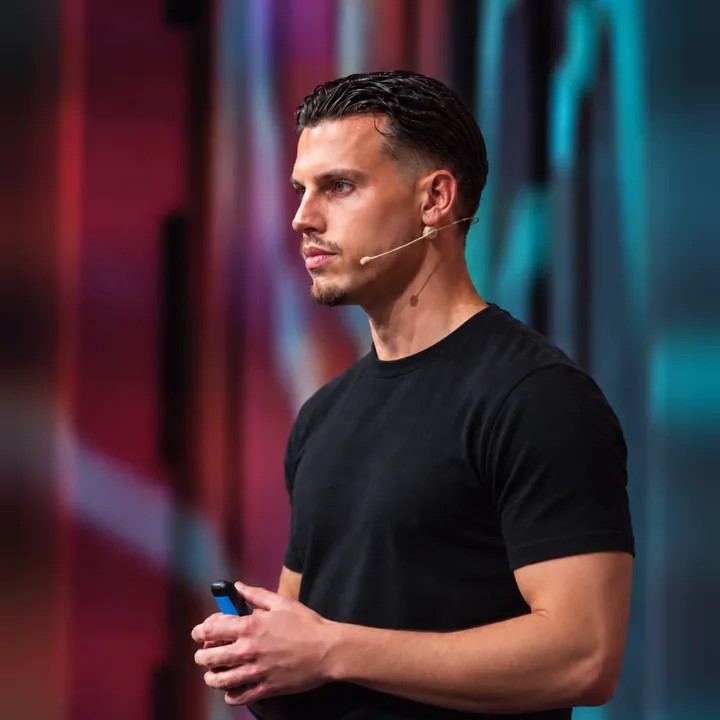
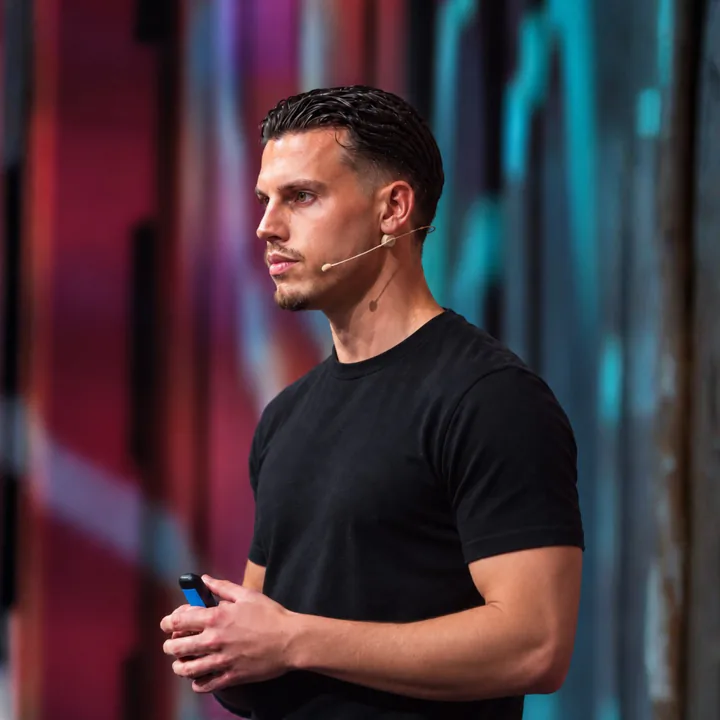
New square profile photo and a bolder name

diff --git a/styles.css b/styles.css
@@ -295,7 +295,7 @@ body {
 .name {
   margin: 0;
   font-size: clamp(1.75rem, 7.6vw, 2.375rem);
-  font-weight: 500;
+  font-weight: 600;
   letter-spacing: -0.04em;
   line-height: 1.08;
   color: var(--text);
@@ -304,7 +304,7 @@ body {
    „sprechen.“ in den Kundenstimmen. */
 .name__accent {
   font-style: italic;
-  font-weight: 620;
+  font-weight: 700;
   color: #0050f6;
   /* Platz für den Überhang der Kursiven, ohne den Satz zu verschieben */
   padding-inline: 0.03em 0.09em;

diff --git a/CREDITS.md b/CREDITS.md
@@ -49,8 +49,8 @@ und tragen auf der Seite das Schild „Platzhalter“, bis echte Videos da sind.
 
 ## Eigene Inhalte
 
-- `assets/niclas-avatar.webp` — rundes Profilbild, aus dem Bühnenfoto
-  geschnitten. Die Rechte liegen vor, eine Urhebernennung ist nicht
+- `assets/niclas-avatar.webp` — rundes Profilbild (Bühnenfoto, quadratischer
+  Zuschnitt). Die Rechte liegen vor, eine Urhebernennung ist nicht
   erforderlich (bestätigt am 19.10.2026).
 - `assets/icons-btn/calendly.webp`, `assets/icons-btn/vds-icon.webp` — runde
   Zeichen in den Buttons: das Calendly-Logo (Marke der Calendly LLC, als
